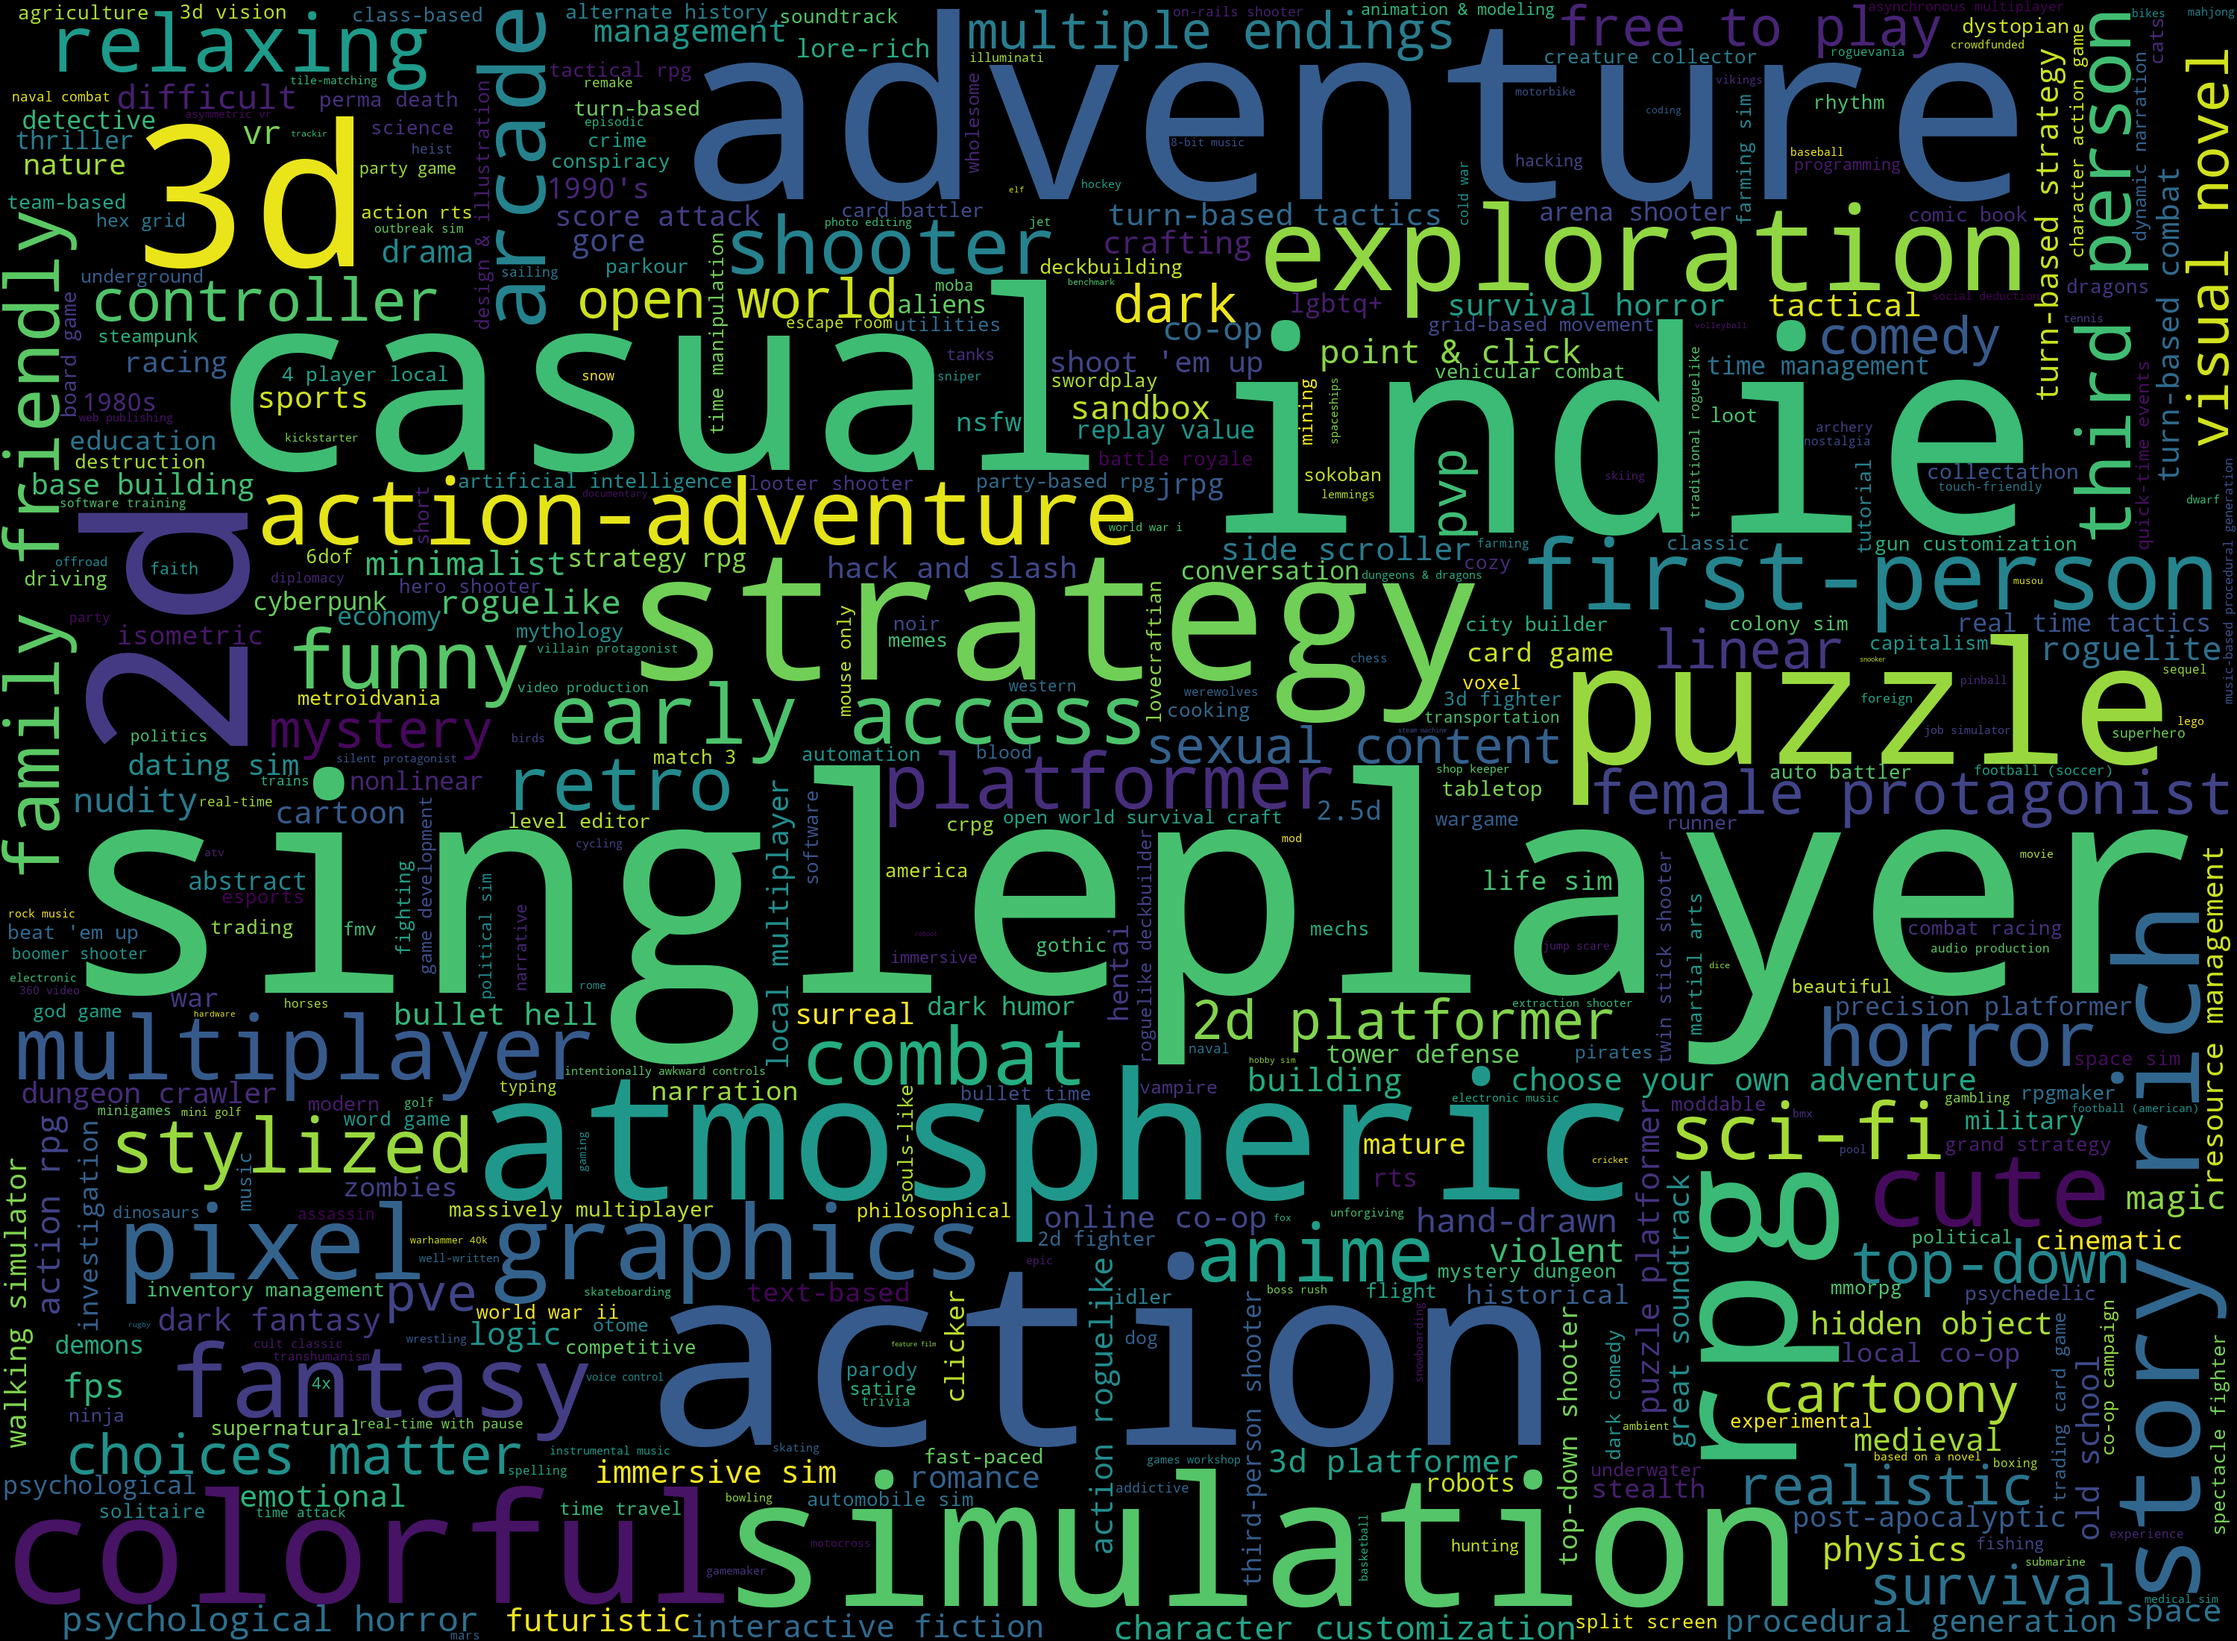
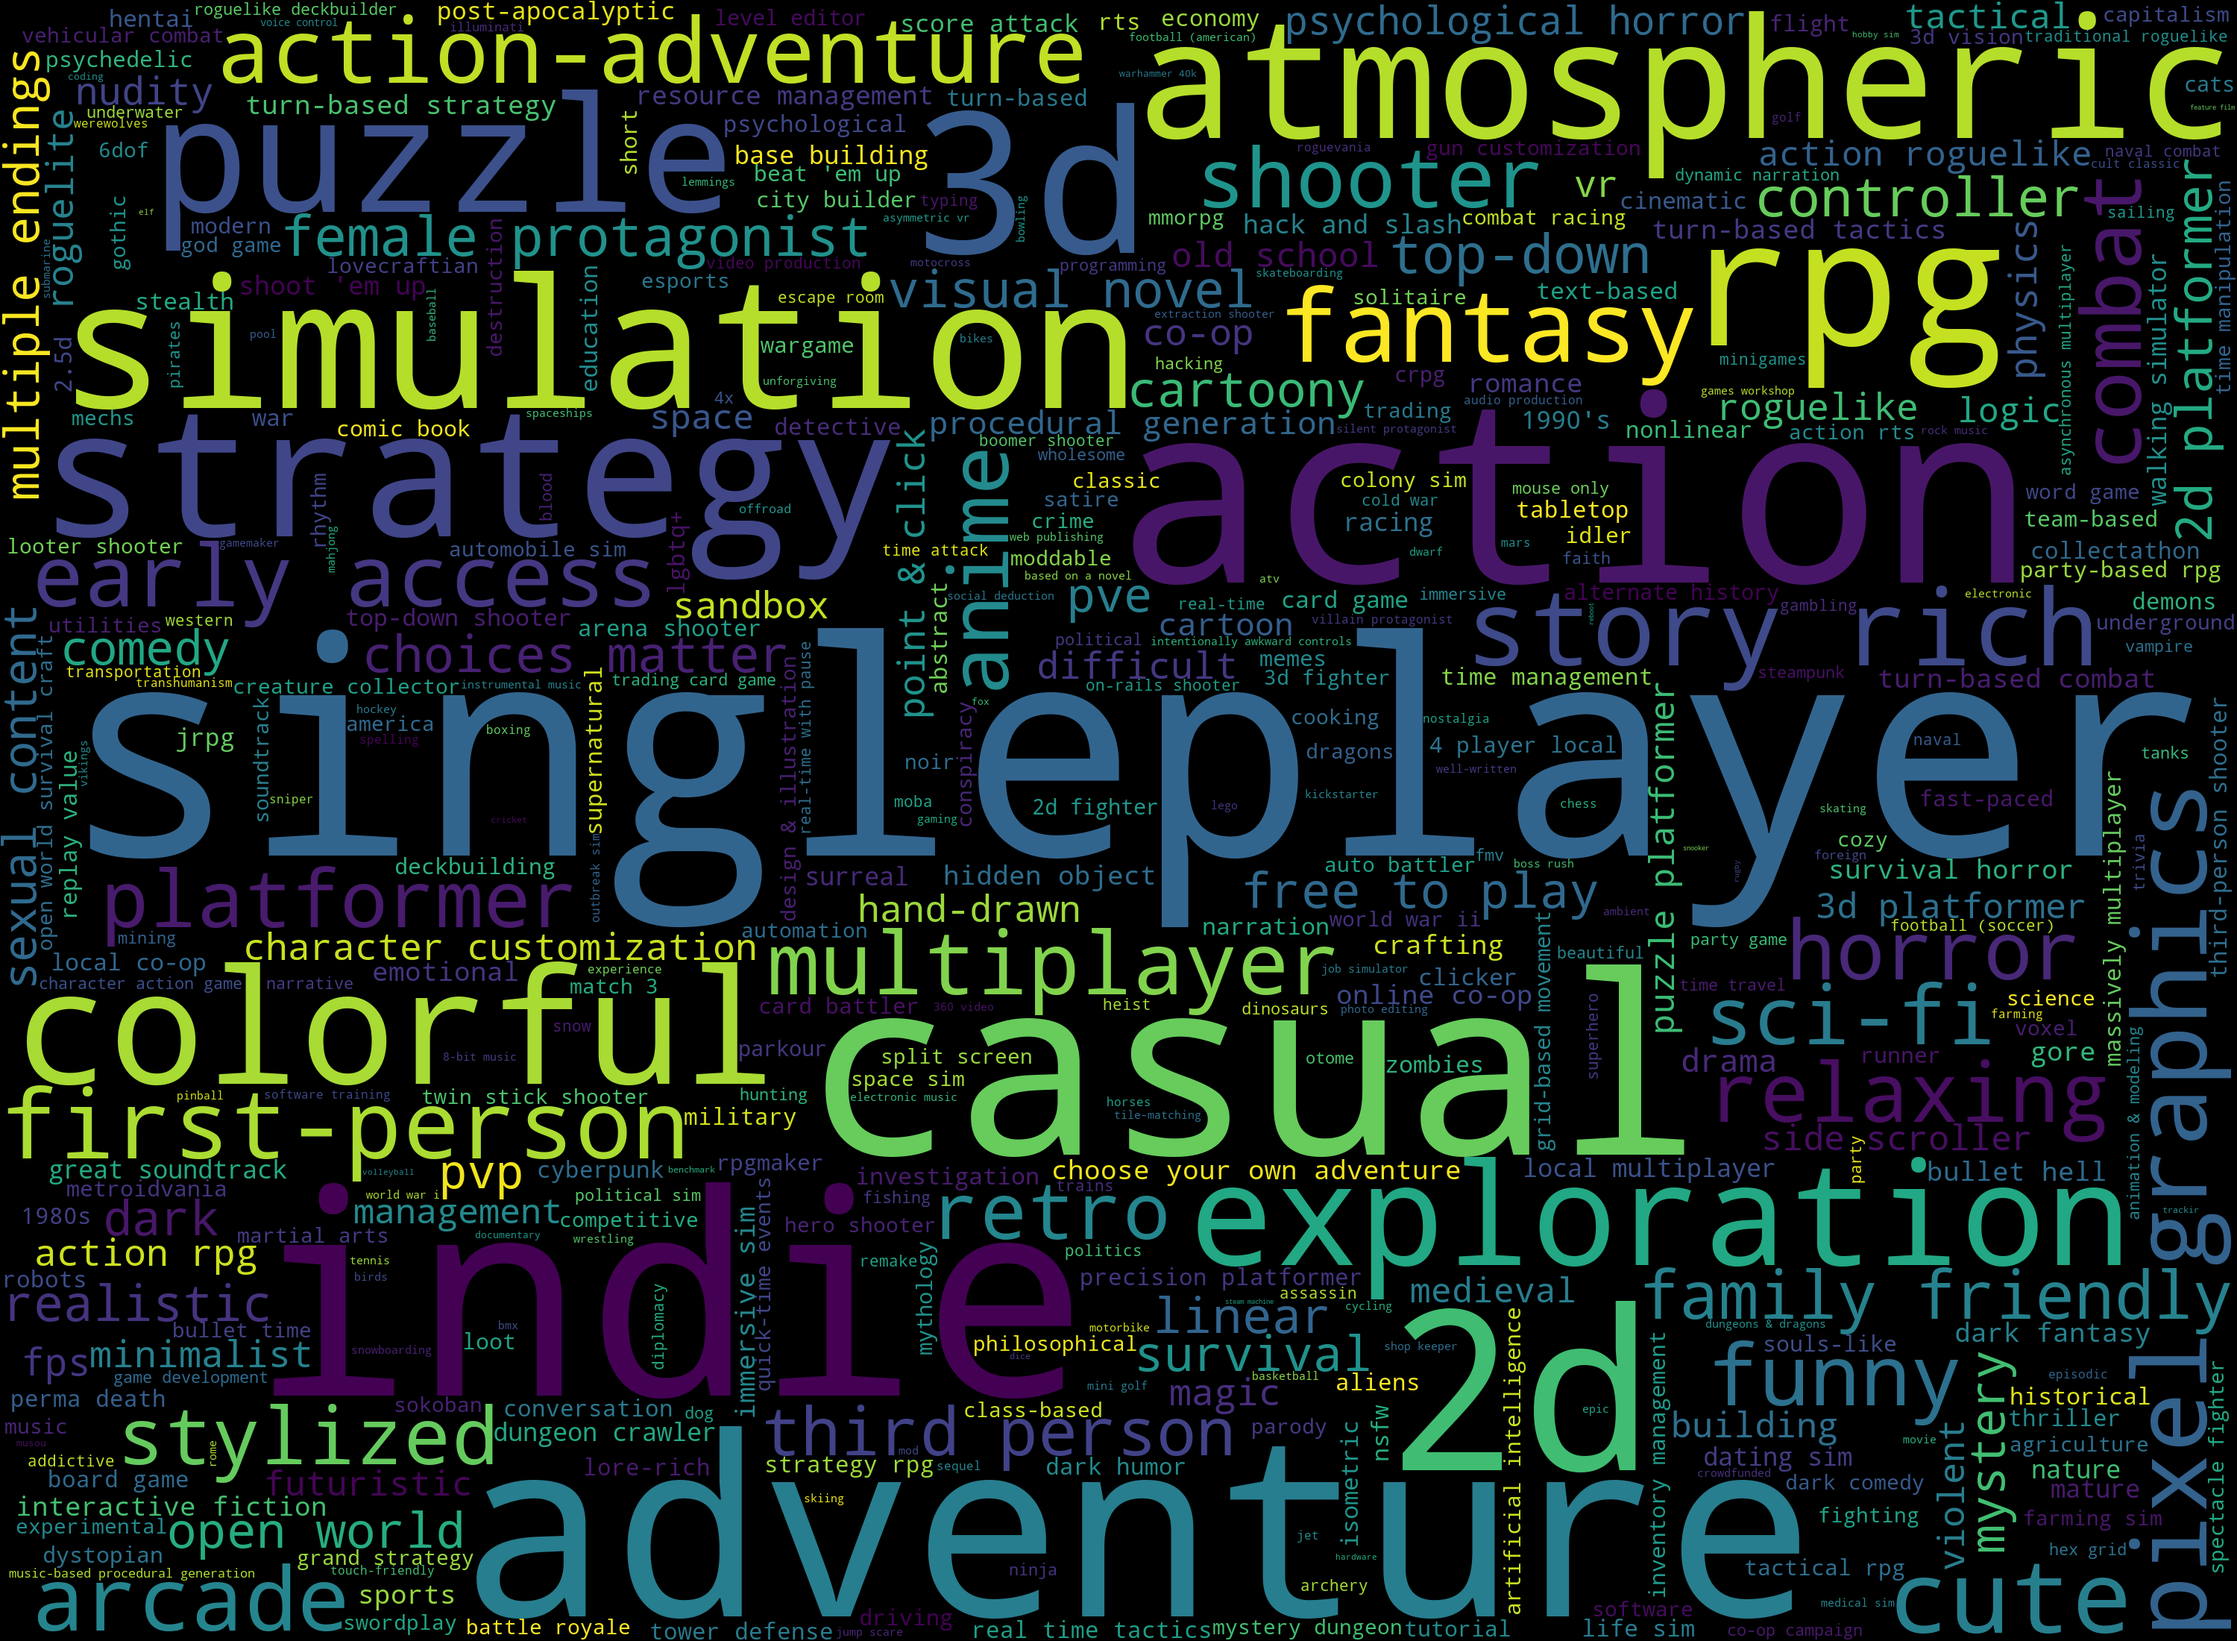
added top_50_reviewed_games per year calculation and model

diff --git a/game_analyzer.py b/game_analyzer.py
@@ -1,15 +1,14 @@
 import csv
 import os
 import numpy as np
-import plotly
+import matplotlib.pyplot as plt
+from matplotlib import ticker
 from collections import Counter
 from wordcloud import WordCloud
 
 categories_path = 'data_sets/categories.csv'
-descriptions_path = 'data_sets/descriptions.csv'
 games_path = 'data_sets/games.csv'
 genres_path = 'data_sets/genres.csv'
-promotional_path = 'data_sets/promotional.csv'
 reviews_path = 'data_sets/reviews.csv'
 steamspy_insights_path = 'data_sets/steamspy_insights.csv'
 tags_path = 'data_sets/tags.csv'
@@ -18,21 +17,16 @@ tags_path = 'data_sets/tags.csv'
 output_folder = 'models'
 os.makedirs(output_folder, exist_ok=True)
 
-# Counting Entries
+# DATA STRUCTURES
 counterIds = 0
-
-# Prices
-priceList = [ [] for i in range(27) ]
-averagePriceList = [ [] for i in range(27) ]
-
-# Game Count
-gamesCount = [ [0] for i in range(27) ]
-gameReleasePerYear = [ [0] for i in range(27) ]
-
-# Word Frequency
+priceList = [[] for i in range(27)]
+averagePriceList = [[] for i in range(27)]
+gamesCount = [[0] for i in range(27)]
+gameReleasePerYear = [[0] for i in range(27)]
 tag_counter = Counter()
 tag_total_counter = 0
 
+# GAME SECTION
 with open(games_path, mode='r', encoding='utf-8') as file:
     reader = csv.reader(file)
     next(reader, None)
@@ -72,13 +66,6 @@ with open(games_path, mode='r', encoding='utf-8') as file:
             if releaseYear.isdigit():
                 gamesCount[int(releaseYear) - 1998].append(1)
 
-with open(tags_path, mode='r', encoding='utf-8') as file:
-    reader = csv.DictReader(file)
-    for row in reader:
-        tag = row['tag'].lower()
-        tag_counter[tag] += 1 
-        tag_total_counter += 1
-
 # Iterating through Lists
 for i in range(27):
     # Average Price over 76092 games per year
@@ -98,8 +85,92 @@ for i in range(27):
         gameReleasePerYear[i] = gameTotal
     else:
         gameReleasePerYear[i] = 0
-        
+
+# Game Release Per Year Model
+x = [1998 + i for i in range(27)]
+y = gameReleasePerYear
+plt.figure(figsize=(8, 6))
+plt.bar(x, y)
+plt.xlim(1998, 2025)
+plt.title('Game Releases Per Year')
+plt.xlabel('Year')
+plt.ylabel('Game Release Amount')
+output_game_releases_per_year = os.path.join(output_folder, 'game_releases_per_year.png')
+plt.savefig(output_game_releases_per_year)
+
+# TAG SECTION
 # WordCloud Model (for frequency in Tags)
+with open(tags_path, mode='r', encoding='utf-8') as file:
+    reader = csv.DictReader(file)
+    for row in reader:
+        tag = row['tag'].lower()
+        tag_counter[tag] += 1 
+        tag_total_counter += 1
+
 wordcloud = WordCloud(width=3000, height=2200, max_words=tag_total_counter, background_color='black').generate_from_frequencies(tag_counter)
 output_tag_frequency = os.path.join(output_folder, 'tag_frequency.png')
 wordcloud.to_file(output_tag_frequency)
+
+# REVIEW SECTION
+positiveList = []
+
+def nMaxElements(list1, N):
+    final_list = []
+ 
+    for _ in range(N):
+        max_pair = max(list1, key=lambda x: x[0])
+        list1.remove(max_pair)
+        final_list.append(max_pair)
+    
+    return final_list
+
+def abbreviate_number(x, pos):
+    if x >= 1_000_000:
+        return f'{x/1_000_000:.1f}M'
+    elif x >= 1_000:
+        return f'{x/1_000:.0f}k'
+    else:
+        return f'{x}'
+
+with open(reviews_path, mode='r', encoding='utf-8') as file:
+    reader = csv.reader(file)
+    next(reader, None)
+    
+    for row in reader:
+        if len(row) != 0 and len(row) > 12:
+            app_id = row[0]        # app_id
+            positive = row[3]      # positive reviews
+            
+            if positive.isdigit():
+                positiveList.append((int(positive), app_id))
+
+top_50 = nMaxElements(positiveList, 50)
+top_50.pop(0) # Excluding CSGO
+app_ids = [app_id for _, app_id in top_50]
+y = []
+with open(games_path, mode='r', encoding='utf-8') as file:
+    reader = csv.reader(file)
+    next(reader, None)
+    
+    for row in reader:
+        app_id = row[0]           # app_id
+        name = row[1]             # name
+
+        for i in app_ids:
+            if (i == app_id):
+                y.append(name)
+                break
+
+x = [positive for positive, _ in top_50]
+plt.figure(figsize=(12, 8))
+plt.barh(y, x)
+plt.title('Top 50 Reviewed Games')
+plt.gca().invert_yaxis()
+
+formatter = ticker.FuncFormatter(abbreviate_number)
+plt.gca().xaxis.set_major_formatter(formatter)
+
+plt.tight_layout()
+
+output_top_50_reviewed_games = os.path.join(output_folder, 'top_50_reviewed_games.png')
+plt.savefig(output_top_50_reviewed_games)
